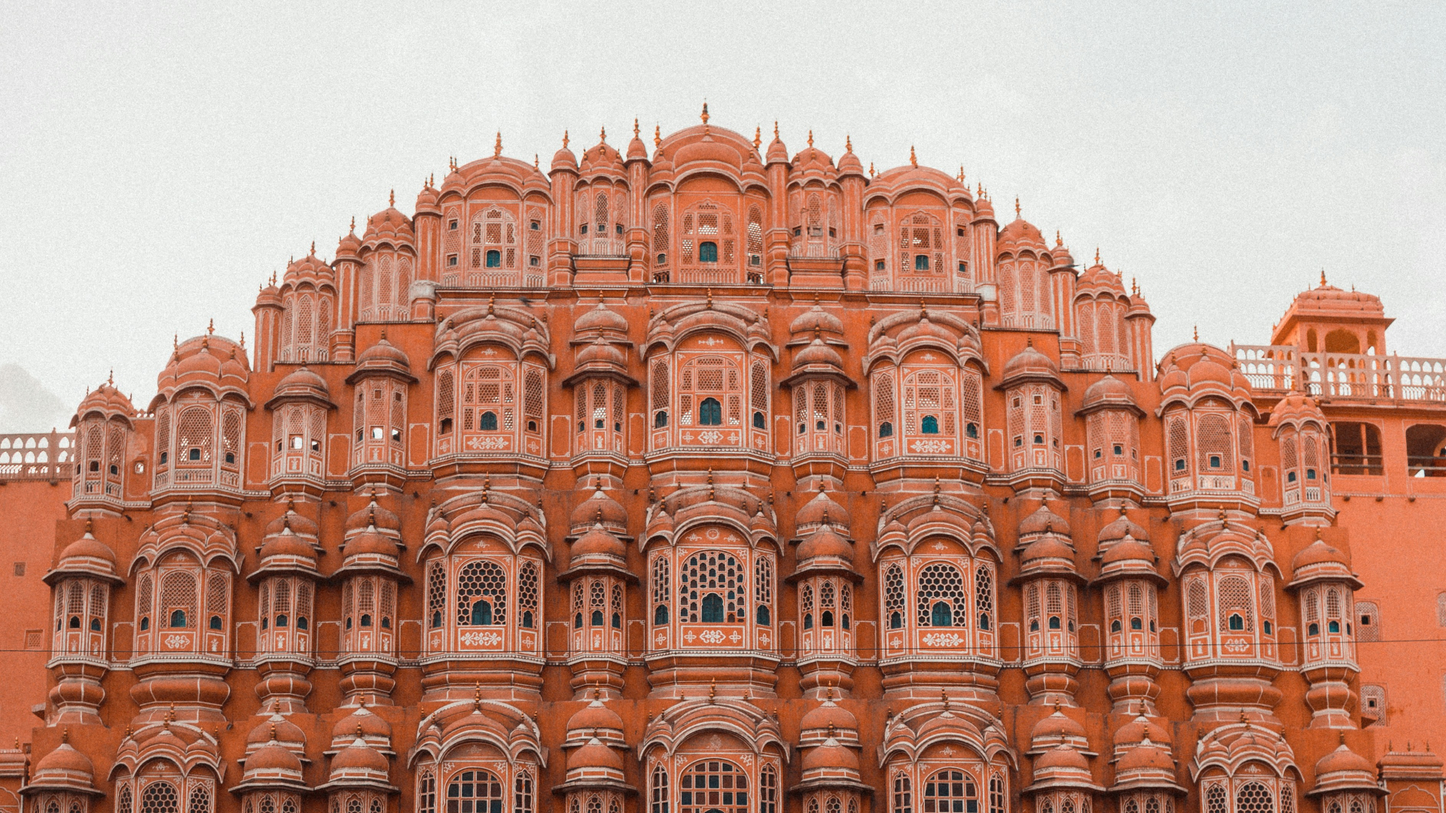
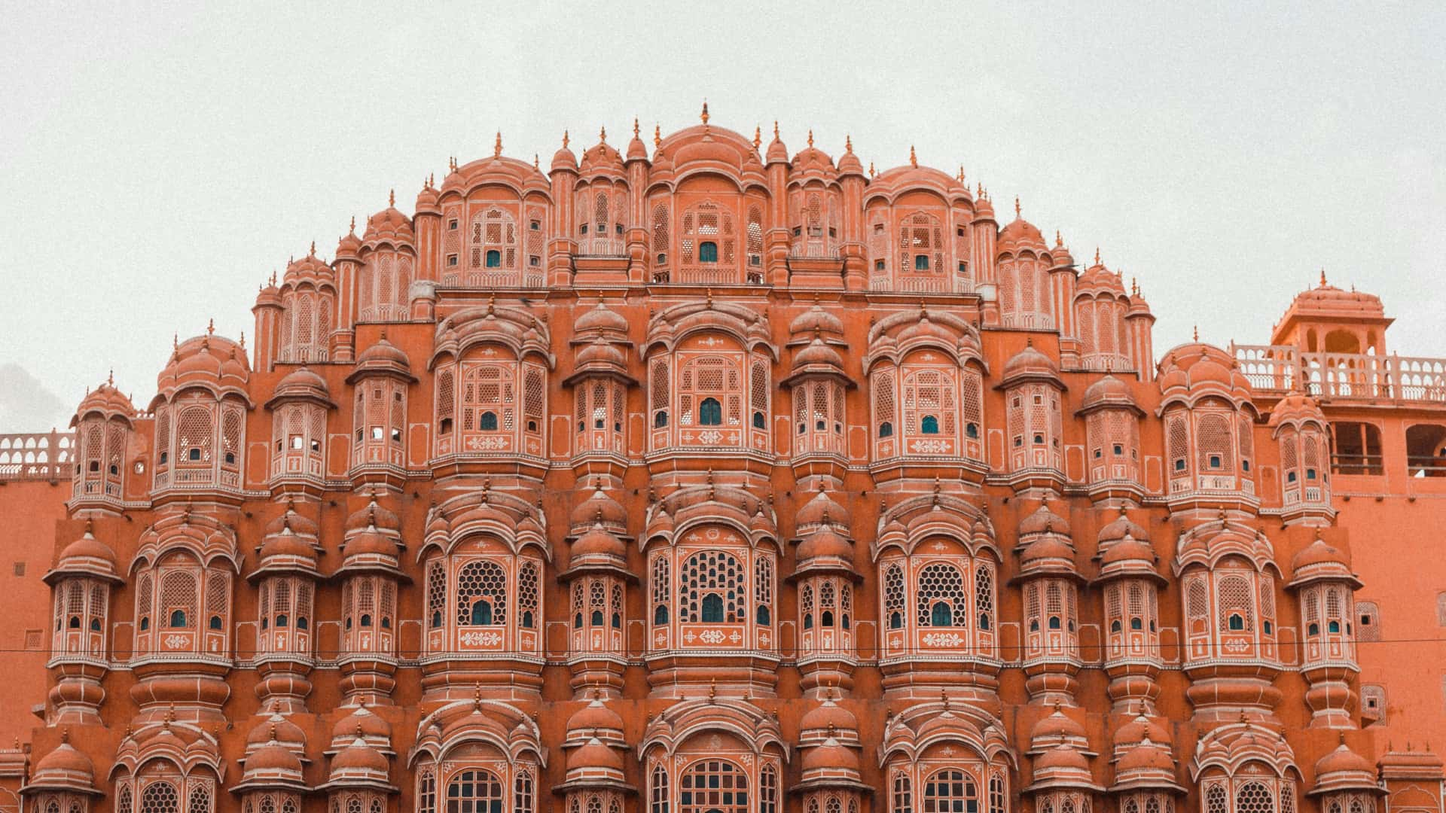
Compressed the images to make the website load faster

diff --git a/src/pages/Home/Home.jsx b/src/pages/Home/Home.jsx
@@ -57,7 +57,7 @@ export default function Home() {
             width: '100vw',
             backgroundSize: 'cover',
             backgroundRepeat: 'no-repeat',
-            backgroundAttachment: 'fixed',
+            backgroundAttachment: 'inherit',
             backgroundPosition: 'center',
             textAlign: 'center',
             display: 'flex',

diff --git a/src/pages/Home/Home.css b/src/pages/Home/Home.css
@@ -55,7 +55,9 @@ nav .container {
     font-weight: 600;
 }
 
-
+.main {
+    transition: background 2s ease-in-out;
+}
 
 .main .registrations {
     padding: 5px;

diff --git a/public/CSS/style.css b/public/CSS/style.css
@@ -1,0 +1,3 @@
+body {
+    overflow: hidden;
+}
